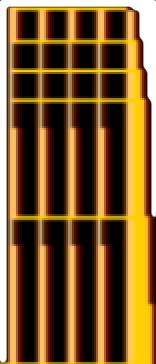
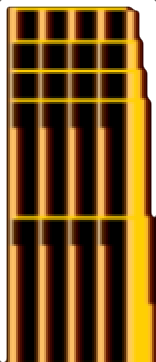
Added street buildings and hacky foreground

diff --git a/public/js/app.bundle.js b/public/js/app.bundle.js
@@ -1,1 +1,1 @@
-window.bc=function(t){var e={};function r(n){if(e[n])return e[n].exports;var o=e[n]={i:n,l:!1,exports:{}};return t[n].call(o.exports,o,o.exports,r),o.l=!0,o.exports}return r.m=t,r.c=e,r.d=function(t,e,n){r.o(t,e)||Object.defineProperty(t,e,{enumerable:!0,get:n})},r.r=function(t){"undefined"!=typeof Symbol&&Symbol.toStringTag&&Object.defineProperty(t,Symbol.toStringTag,{value:"Module"}),Object.defineProperty(t,"__esModule",{value:!0})},r.t=function(t,e){if(1&e&&(t=r(t)),8&e)return t;if(4&e&&"object"==typeof t&&t&&t.__esModule)return t;var n=Object.create(null);if(r.r(n),Object.defineProperty(n,"default",{enumerable:!0,value:t}),2&e&&"string"!=typeof t)for(var o in t)r.d(n,o,function(e){return t[e]}.bind(null,o));return n},r.n=function(t){var e=t&&t.__esModule?function(){return t.default}:function(){return t};return r.d(e,"a",e),e},r.o=function(t,e){return Object.prototype.hasOwnProperty.call(t,e)},r.p="",r(r.s=4)}([function(t,e){t.exports=class{constructor(t,e){this.repo=t,this.sky=e,this.engagement=0,this.max_engagement=5}inc_engagement(){return this.engagement==this.max_engagement&&(this.engagement=-1),this.engagement++,this.repo.get_texture("sky",this.engagement).then(t=>(console.log(t),console.log("Setting sky to:",t.name),this.sky.setTexture(t.name),this.engagement))}}},function(t,e,r){"use strict";var n=this&&this.__assign||Object.assign||function(t){for(var e,r=1,n=arguments.length;r<n;r++)for(var o in e=arguments[r])Object.prototype.hasOwnProperty.call(e,o)&&(t[o]=e[o]);return t},o=this&&this.__awaiter||function(t,e,r,n){return new(r||(r=Promise))((function(o,i){function s(t){try{u(n.next(t))}catch(t){i(t)}}function a(t){try{u(n.throw(t))}catch(t){i(t)}}function u(t){t.done?o(t.value):new r((function(e){e(t.value)})).then(s,a)}u((n=n.apply(t,e||[])).next())}))},i=this&&this.__generator||function(t,e){var r,n,o,i,s={label:0,sent:function(){if(1&o[0])throw o[1];return o[1]},trys:[],ops:[]};return i={next:a(0),throw:a(1),return:a(2)},"function"==typeof Symbol&&(i[Symbol.iterator]=function(){return this}),i;function a(i){return function(a){return function(i){if(r)throw new TypeError("Generator is already executing.");for(;s;)try{if(r=1,n&&(o=n[2&i[0]?"return":i[0]?"throw":"next"])&&!(o=o.call(n,i[1])).done)return o;switch(n=0,o&&(i=[0,o.value]),i[0]){case 0:case 1:o=i;break;case 4:return s.label++,{value:i[1],done:!1};case 5:s.label++,n=i[1],i=[0];continue;case 7:i=s.ops.pop(),s.trys.pop();continue;default:if(!(o=(o=s.trys).length>0&&o[o.length-1])&&(6===i[0]||2===i[0])){s=0;continue}if(3===i[0]&&(!o||i[1]>o[0]&&i[1]<o[3])){s.label=i[1];break}if(6===i[0]&&s.label<o[1]){s.label=o[1],o=i;break}if(o&&s.label<o[2]){s.label=o[2],s.ops.push(i);break}o[2]&&s.ops.pop(),s.trys.pop();continue}i=e.call(t,s)}catch(t){i=[6,t],n=0}finally{r=o=0}if(5&i[0])throw i[1];return{value:i[0]?i[1]:void 0,done:!0}}([i,a])}}},s=this&&this.__rest||function(t,e){var r={};for(var n in t)Object.prototype.hasOwnProperty.call(t,n)&&e.indexOf(n)<0&&(r[n]=t[n]);if(null!=t&&"function"==typeof Object.getOwnPropertySymbols){var o=0;for(n=Object.getOwnPropertySymbols(t);o<n.length;o++)e.indexOf(n[o])<0&&(r[n[o]]=t[n[o]])}return r};Object.defineProperty(e,"__esModule",{value:!0});var a=r(2),u=r(2);e.ClientError=u.ClientError,r(5);var h=function(){function t(t,e){this.url=t,this.options=e||{}}return t.prototype.rawRequest=function(t,e){return o(this,void 0,void 0,(function(){var r,o,u,h,c,l,d,p,y;return i(this,(function(i){switch(i.label){case 0:return r=this.options,o=r.headers,u=s(r,["headers"]),h=JSON.stringify({query:t,variables:e||void 0}),[4,fetch(this.url,n({method:"POST",headers:Object.assign({"Content-Type":"application/json"},o),body:h},u))];case 1:return[4,f(c=i.sent())];case 2:if(l=i.sent(),c.ok&&!l.errors&&l.data)return d=c.headers,p=c.status,[2,n({},l,{headers:d,status:p})];throw y="string"==typeof l?{error:l}:l,new a.ClientError(n({},y,{status:c.status,headers:c.headers}),{query:t,variables:e})}}))}))},t.prototype.request=function(t,e){return o(this,void 0,void 0,(function(){var r,o,u,h,c,l,d;return i(this,(function(i){switch(i.label){case 0:return r=this.options,o=r.headers,u=s(r,["headers"]),h=JSON.stringify({query:t,variables:e||void 0}),[4,fetch(this.url,n({method:"POST",headers:Object.assign({"Content-Type":"application/json"},o),body:h},u))];case 1:return[4,f(c=i.sent())];case 2:if(l=i.sent(),c.ok&&!l.errors&&l.data)return[2,l.data];throw d="string"==typeof l?{error:l}:l,new a.ClientError(n({},d,{status:c.status}),{query:t,variables:e})}}))}))},t.prototype.setHeaders=function(t){return this.options.headers=t,this},t.prototype.setHeader=function(t,e){var r,n=this.options.headers;return n?n[t]=e:this.options.headers=((r={})[t]=e,r),this},t}();function c(t,e,r){return o(this,void 0,void 0,(function(){return i(this,(function(n){return[2,new h(t).request(e,r)]}))}))}function f(t){return o(this,void 0,void 0,(function(){var e;return i(this,(function(r){return(e=t.headers.get("Content-Type"))&&e.startsWith("application/json")?[2,t.json()]:[2,t.text()]}))}))}e.GraphQLClient=h,e.rawRequest=function(t,e,r){return o(this,void 0,void 0,(function(){return i(this,(function(n){return[2,new h(t).rawRequest(e,r)]}))}))},e.request=c,e.default=c},function(t,e,r){"use strict";var n,o=this&&this.__extends||(n=Object.setPrototypeOf||{__proto__:[]}instanceof Array&&function(t,e){t.__proto__=e}||function(t,e){for(var r in e)e.hasOwnProperty(r)&&(t[r]=e[r])},function(t,e){function r(){this.constructor=t}n(t,e),t.prototype=null===e?Object.create(e):(r.prototype=e.prototype,new r)});Object.defineProperty(e,"__esModule",{value:!0});var i=function(t){function e(r,n){var o=this,i=e.extractMessage(r)+": "+JSON.stringify({response:r,request:n});return(o=t.call(this,i)||this).response=r,o.request=n,"function"==typeof Error.captureStackTrace&&Error.captureStackTrace(o,e),o}return o(e,t),e.extractMessage=function(t){try{return t.errors[0].message}catch(e){return"GraphQL Error (Code: "+t.status+")"}},e}(Error);e.ClientError=i},function(t,e,r){const{request:n}=r(1);t.exports=class{constructor(t){this.api_endpoint=t}get_texture(t,e){var r=[];if(void 0===t){const t="{\n          textures {name src}\n        }";return n(this.api_endpoint,t).then(t=>{t.textures.forEach(t=>{r.push(t)})})}{void 0===e&&(e=0);const r=`{\n          texture(name:"${t}", level:${e}) {name src}\n        }`;return n(this.api_endpoint,r).then(t=>t.texture)}}}},function(t,e,r){"use strict";r.r(e),r.d(e,"default",(function(){return c}));var n=r(0),o=r.n(n),i=r(3),s=r.n(i),a=r(1);class u extends Phaser.Scene{constructor(){super({key:"preloadScene"})}preload(){const t=window.location.href+"graphql";Object(a.request)(t,"{\n            textures {name src}\n          }").then(t=>{t.textures.forEach(t=>{this.load.image(t.name,t.src)}),this.load.start()}),this.load.on("progress",this.updateBar),this.load.on("complete",this.complete,{scene:this.scene})}updateBar(t){console.log("P:"+t)}complete(){console.log("COMPLETE!"),this.scene.start("gameScene")}}class h extends Phaser.Scene{constructor(t){super({key:"gameScene"}),this.bc=t,this.i=0,this.gameWidth=8e3,this.canvasWidth=1280}create(){var t;console.log("in create");this.sys.canvas.hight;const e=this.add.image(0,0,"sky").setOrigin(0,0);e.displayWidth=this.gameWidth;this.add.image(1800,100,"buildings").setOrigin(0,0),this.add.image(3800,100,"buildings").setOrigin(0,0);const r=window.location.href+"graphql";t=new s.a(r),this.bc.repo=t,this.bc.sky=e,this.bc.max_engagement=2,this.cursors=this.input.keyboard.createCursorKeys(),this.cameras.main.setViewport(0,0,this.sys.canvas.width,this.sys.canvas.height),this.input.on("pointerdown",(function(t){this.bc.inc_engagement()}),this)}update(){this.cursors.left.isDown?this.i>0&&(this.i-=10,console.log(this.i),this.cameras.main.setScroll(this.i,0)):this.cursors.right.isDown&&this.i<this.gameWidth-this.canvasWidth&&(this.i+=10,console.log(this.i),this.cameras.main.setScroll(this.i,0))}resize(){}}function c(){var t={type:Phaser.CANVAS,scale:{mode:Phaser.Scale.FIT,autoCenter:Phaser.Scale.CENTER_BOTH,width:1280,height:720},canvas:document.getElementById("game")},e=new o.a,r=new Phaser.Game(t);return r.scene.add("preloadScene",new u),r.scene.add("gameScene",new h(e)),r.scene.start("preloadScene"),{game:r,bc:e}}},function(t,e){!function(t){if(!t.fetch){var e="URLSearchParams"in t,r="Symbol"in t&&"iterator"in Symbol,n="FileReader"in t&&"Blob"in t&&function(){try{return new Blob,!0}catch(t){return!1}}(),o="FormData"in t,i="ArrayBuffer"in t;if(i)var s=["[object Int8Array]","[object Uint8Array]","[object Uint8ClampedArray]","[object Int16Array]","[object Uint16Array]","[object Int32Array]","[object Uint32Array]","[object Float32Array]","[object Float64Array]"],a=function(t){return t&&DataView.prototype.isPrototypeOf(t)},u=ArrayBuffer.isView||function(t){return t&&s.indexOf(Object.prototype.toString.call(t))>-1};p.prototype.append=function(t,e){t=f(t),e=l(e);var r=this.map[t];this.map[t]=r?r+","+e:e},p.prototype.delete=function(t){delete this.map[f(t)]},p.prototype.get=function(t){return t=f(t),this.has(t)?this.map[t]:null},p.prototype.has=function(t){return this.map.hasOwnProperty(f(t))},p.prototype.set=function(t,e){this.map[f(t)]=l(e)},p.prototype.forEach=function(t,e){for(var r in this.map)this.map.hasOwnProperty(r)&&t.call(e,this.map[r],r,this)},p.prototype.keys=function(){var t=[];return this.forEach((function(e,r){t.push(r)})),d(t)},p.prototype.values=function(){var t=[];return this.forEach((function(e){t.push(e)})),d(t)},p.prototype.entries=function(){var t=[];return this.forEach((function(e,r){t.push([r,e])})),d(t)},r&&(p.prototype[Symbol.iterator]=p.prototype.entries);var h=["DELETE","GET","HEAD","OPTIONS","POST","PUT"];v.prototype.clone=function(){return new v(this,{body:this._bodyInit})},w.call(v.prototype),w.call(x.prototype),x.prototype.clone=function(){return new x(this._bodyInit,{status:this.status,statusText:this.statusText,headers:new p(this.headers),url:this.url})},x.error=function(){var t=new x(null,{status:0,statusText:""});return t.type="error",t};var c=[301,302,303,307,308];x.redirect=function(t,e){if(-1===c.indexOf(e))throw new RangeError("Invalid status code");return new x(null,{status:e,headers:{location:t}})},t.Headers=p,t.Request=v,t.Response=x,t.fetch=function(t,e){return new Promise((function(r,o){var i=new v(t,e),s=new XMLHttpRequest;s.onload=function(){var t,e,n={status:s.status,statusText:s.statusText,headers:(t=s.getAllResponseHeaders()||"",e=new p,t.replace(/\r?\n[\t ]+/g," ").split(/\r?\n/).forEach((function(t){var r=t.split(":"),n=r.shift().trim();if(n){var o=r.join(":").trim();e.append(n,o)}})),e)};n.url="responseURL"in s?s.responseURL:n.headers.get("X-Request-URL");var o="response"in s?s.response:s.responseText;r(new x(o,n))},s.onerror=function(){o(new TypeError("Network request failed"))},s.ontimeout=function(){o(new TypeError("Network request failed"))},s.open(i.method,i.url,!0),"include"===i.credentials?s.withCredentials=!0:"omit"===i.credentials&&(s.withCredentials=!1),"responseType"in s&&n&&(s.responseType="blob"),i.headers.forEach((function(t,e){s.setRequestHeader(e,t)})),s.send(void 0===i._bodyInit?null:i._bodyInit)}))},t.fetch.polyfill=!0}function f(t){if("string"!=typeof t&&(t=String(t)),/[^a-z0-9\-#$%&'*+.\^_`|~]/i.test(t))throw new TypeError("Invalid character in header field name");return t.toLowerCase()}function l(t){return"string"!=typeof t&&(t=String(t)),t}function d(t){var e={next:function(){var e=t.shift();return{done:void 0===e,value:e}}};return r&&(e[Symbol.iterator]=function(){return e}),e}function p(t){this.map={},t instanceof p?t.forEach((function(t,e){this.append(e,t)}),this):Array.isArray(t)?t.forEach((function(t){this.append(t[0],t[1])}),this):t&&Object.getOwnPropertyNames(t).forEach((function(e){this.append(e,t[e])}),this)}function y(t){if(t.bodyUsed)return Promise.reject(new TypeError("Already read"));t.bodyUsed=!0}function b(t){return new Promise((function(e,r){t.onload=function(){e(t.result)},t.onerror=function(){r(t.error)}}))}function m(t){var e=new FileReader,r=b(e);return e.readAsArrayBuffer(t),r}function g(t){if(t.slice)return t.slice(0);var e=new Uint8Array(t.byteLength);return e.set(new Uint8Array(t)),e.buffer}function w(){return this.bodyUsed=!1,this._initBody=function(t){if(this._bodyInit=t,t)if("string"==typeof t)this._bodyText=t;else if(n&&Blob.prototype.isPrototypeOf(t))this._bodyBlob=t;else if(o&&FormData.prototype.isPrototypeOf(t))this._bodyFormData=t;else if(e&&URLSearchParams.prototype.isPrototypeOf(t))this._bodyText=t.toString();else if(i&&n&&a(t))this._bodyArrayBuffer=g(t.buffer),this._bodyInit=new Blob([this._bodyArrayBuffer]);else{if(!i||!ArrayBuffer.prototype.isPrototypeOf(t)&&!u(t))throw new Error("unsupported BodyInit type");this._bodyArrayBuffer=g(t)}else this._bodyText="";this.headers.get("content-type")||("string"==typeof t?this.headers.set("content-type","text/plain;charset=UTF-8"):this._bodyBlob&&this._bodyBlob.type?this.headers.set("content-type",this._bodyBlob.type):e&&URLSearchParams.prototype.isPrototypeOf(t)&&this.headers.set("content-type","application/x-www-form-urlencoded;charset=UTF-8"))},n&&(this.blob=function(){var t=y(this);if(t)return t;if(this._bodyBlob)return Promise.resolve(this._bodyBlob);if(this._bodyArrayBuffer)return Promise.resolve(new Blob([this._bodyArrayBuffer]));if(this._bodyFormData)throw new Error("could not read FormData body as blob");return Promise.resolve(new Blob([this._bodyText]))},this.arrayBuffer=function(){return this._bodyArrayBuffer?y(this)||Promise.resolve(this._bodyArrayBuffer):this.blob().then(m)}),this.text=function(){var t,e,r,n=y(this);if(n)return n;if(this._bodyBlob)return t=this._bodyBlob,e=new FileReader,r=b(e),e.readAsText(t),r;if(this._bodyArrayBuffer)return Promise.resolve(function(t){for(var e=new Uint8Array(t),r=new Array(e.length),n=0;n<e.length;n++)r[n]=String.fromCharCode(e[n]);return r.join("")}(this._bodyArrayBuffer));if(this._bodyFormData)throw new Error("could not read FormData body as text");return Promise.resolve(this._bodyText)},o&&(this.formData=function(){return this.text().then(_)}),this.json=function(){return this.text().then(JSON.parse)},this}function v(t,e){var r,n,o=(e=e||{}).body;if(t instanceof v){if(t.bodyUsed)throw new TypeError("Already read");this.url=t.url,this.credentials=t.credentials,e.headers||(this.headers=new p(t.headers)),this.method=t.method,this.mode=t.mode,o||null==t._bodyInit||(o=t._bodyInit,t.bodyUsed=!0)}else this.url=String(t);if(this.credentials=e.credentials||this.credentials||"omit",!e.headers&&this.headers||(this.headers=new p(e.headers)),this.method=(r=e.method||this.method||"GET",n=r.toUpperCase(),h.indexOf(n)>-1?n:r),this.mode=e.mode||this.mode||null,this.referrer=null,("GET"===this.method||"HEAD"===this.method)&&o)throw new TypeError("Body not allowed for GET or HEAD requests");this._initBody(o)}function _(t){var e=new FormData;return t.trim().split("&").forEach((function(t){if(t){var r=t.split("="),n=r.shift().replace(/\+/g," "),o=r.join("=").replace(/\+/g," ");e.append(decodeURIComponent(n),decodeURIComponent(o))}})),e}function x(t,e){e||(e={}),this.type="default",this.status=void 0===e.status?200:e.status,this.ok=this.status>=200&&this.status<300,this.statusText="statusText"in e?e.statusText:"OK",this.headers=new p(e.headers),this.url=e.url||"",this._initBody(t)}}("undefined"!=typeof self?self:this)}]).default;
+window.bc=function(t){var e={};function r(n){if(e[n])return e[n].exports;var o=e[n]={i:n,l:!1,exports:{}};return t[n].call(o.exports,o,o.exports,r),o.l=!0,o.exports}return r.m=t,r.c=e,r.d=function(t,e,n){r.o(t,e)||Object.defineProperty(t,e,{enumerable:!0,get:n})},r.r=function(t){"undefined"!=typeof Symbol&&Symbol.toStringTag&&Object.defineProperty(t,Symbol.toStringTag,{value:"Module"}),Object.defineProperty(t,"__esModule",{value:!0})},r.t=function(t,e){if(1&e&&(t=r(t)),8&e)return t;if(4&e&&"object"==typeof t&&t&&t.__esModule)return t;var n=Object.create(null);if(r.r(n),Object.defineProperty(n,"default",{enumerable:!0,value:t}),2&e&&"string"!=typeof t)for(var o in t)r.d(n,o,function(e){return t[e]}.bind(null,o));return n},r.n=function(t){var e=t&&t.__esModule?function(){return t.default}:function(){return t};return r.d(e,"a",e),e},r.o=function(t,e){return Object.prototype.hasOwnProperty.call(t,e)},r.p="",r(r.s=5)}([function(t,e){t.exports=class{constructor(t,e){this.repo=t,this.sky=e,this.engagement=0,this.max_engagement=5}inc_engagement(){return this.engagement==this.max_engagement&&(this.engagement=-1),this.engagement++,this.repo.get_texture("sky",this.engagement).then(t=>(console.log(t),console.log("Setting sky to:",t.name),this.sky.setTexture(t.name),this.engagement))}}},function(t,e,r){"use strict";var n=this&&this.__assign||Object.assign||function(t){for(var e,r=1,n=arguments.length;r<n;r++)for(var o in e=arguments[r])Object.prototype.hasOwnProperty.call(e,o)&&(t[o]=e[o]);return t},o=this&&this.__awaiter||function(t,e,r,n){return new(r||(r=Promise))((function(o,s){function i(t){try{u(n.next(t))}catch(t){s(t)}}function a(t){try{u(n.throw(t))}catch(t){s(t)}}function u(t){t.done?o(t.value):new r((function(e){e(t.value)})).then(i,a)}u((n=n.apply(t,e||[])).next())}))},s=this&&this.__generator||function(t,e){var r,n,o,s,i={label:0,sent:function(){if(1&o[0])throw o[1];return o[1]},trys:[],ops:[]};return s={next:a(0),throw:a(1),return:a(2)},"function"==typeof Symbol&&(s[Symbol.iterator]=function(){return this}),s;function a(s){return function(a){return function(s){if(r)throw new TypeError("Generator is already executing.");for(;i;)try{if(r=1,n&&(o=n[2&s[0]?"return":s[0]?"throw":"next"])&&!(o=o.call(n,s[1])).done)return o;switch(n=0,o&&(s=[0,o.value]),s[0]){case 0:case 1:o=s;break;case 4:return i.label++,{value:s[1],done:!1};case 5:i.label++,n=s[1],s=[0];continue;case 7:s=i.ops.pop(),i.trys.pop();continue;default:if(!(o=(o=i.trys).length>0&&o[o.length-1])&&(6===s[0]||2===s[0])){i=0;continue}if(3===s[0]&&(!o||s[1]>o[0]&&s[1]<o[3])){i.label=s[1];break}if(6===s[0]&&i.label<o[1]){i.label=o[1],o=s;break}if(o&&i.label<o[2]){i.label=o[2],i.ops.push(s);break}o[2]&&i.ops.pop(),i.trys.pop();continue}s=e.call(t,i)}catch(t){s=[6,t],n=0}finally{r=o=0}if(5&s[0])throw s[1];return{value:s[0]?s[1]:void 0,done:!0}}([s,a])}}},i=this&&this.__rest||function(t,e){var r={};for(var n in t)Object.prototype.hasOwnProperty.call(t,n)&&e.indexOf(n)<0&&(r[n]=t[n]);if(null!=t&&"function"==typeof Object.getOwnPropertySymbols){var o=0;for(n=Object.getOwnPropertySymbols(t);o<n.length;o++)e.indexOf(n[o])<0&&(r[n[o]]=t[n[o]])}return r};Object.defineProperty(e,"__esModule",{value:!0});var a=r(2),u=r(2);e.ClientError=u.ClientError,r(6);var h=function(){function t(t,e){this.url=t,this.options=e||{}}return t.prototype.rawRequest=function(t,e){return o(this,void 0,void 0,(function(){var r,o,u,h,c,l,d,p,y;return s(this,(function(s){switch(s.label){case 0:return r=this.options,o=r.headers,u=i(r,["headers"]),h=JSON.stringify({query:t,variables:e||void 0}),[4,fetch(this.url,n({method:"POST",headers:Object.assign({"Content-Type":"application/json"},o),body:h},u))];case 1:return[4,f(c=s.sent())];case 2:if(l=s.sent(),c.ok&&!l.errors&&l.data)return d=c.headers,p=c.status,[2,n({},l,{headers:d,status:p})];throw y="string"==typeof l?{error:l}:l,new a.ClientError(n({},y,{status:c.status,headers:c.headers}),{query:t,variables:e})}}))}))},t.prototype.request=function(t,e){return o(this,void 0,void 0,(function(){var r,o,u,h,c,l,d;return s(this,(function(s){switch(s.label){case 0:return r=this.options,o=r.headers,u=i(r,["headers"]),h=JSON.stringify({query:t,variables:e||void 0}),[4,fetch(this.url,n({method:"POST",headers:Object.assign({"Content-Type":"application/json"},o),body:h},u))];case 1:return[4,f(c=s.sent())];case 2:if(l=s.sent(),c.ok&&!l.errors&&l.data)return[2,l.data];throw d="string"==typeof l?{error:l}:l,new a.ClientError(n({},d,{status:c.status}),{query:t,variables:e})}}))}))},t.prototype.setHeaders=function(t){return this.options.headers=t,this},t.prototype.setHeader=function(t,e){var r,n=this.options.headers;return n?n[t]=e:this.options.headers=((r={})[t]=e,r),this},t}();function c(t,e,r){return o(this,void 0,void 0,(function(){return s(this,(function(n){return[2,new h(t).request(e,r)]}))}))}function f(t){return o(this,void 0,void 0,(function(){var e;return s(this,(function(r){return(e=t.headers.get("Content-Type"))&&e.startsWith("application/json")?[2,t.json()]:[2,t.text()]}))}))}e.GraphQLClient=h,e.rawRequest=function(t,e,r){return o(this,void 0,void 0,(function(){return s(this,(function(n){return[2,new h(t).rawRequest(e,r)]}))}))},e.request=c,e.default=c},function(t,e,r){"use strict";var n,o=this&&this.__extends||(n=Object.setPrototypeOf||{__proto__:[]}instanceof Array&&function(t,e){t.__proto__=e}||function(t,e){for(var r in e)e.hasOwnProperty(r)&&(t[r]=e[r])},function(t,e){function r(){this.constructor=t}n(t,e),t.prototype=null===e?Object.create(e):(r.prototype=e.prototype,new r)});Object.defineProperty(e,"__esModule",{value:!0});var s=function(t){function e(r,n){var o=this,s=e.extractMessage(r)+": "+JSON.stringify({response:r,request:n});return(o=t.call(this,s)||this).response=r,o.request=n,"function"==typeof Error.captureStackTrace&&Error.captureStackTrace(o,e),o}return o(e,t),e.extractMessage=function(t){try{return t.errors[0].message}catch(e){return"GraphQL Error (Code: "+t.status+")"}},e}(Error);e.ClientError=s},function(t,e){t.exports=class{constructor(t,e){this.buildings=t.buildings,this.gfx_repo=e}render_buildings(t,e){var r=100,n=this.gfx_repo,o=this.buildings,s=[],i=[];return o.forEach((function(o){i.push(n.get_texture(o.type,e).then(e=>(r+=1e3,s.push(t.add.image(r,420,e.name)))))})),Promise.all(i).then((function(e){var r;for(console.log(e),r=0;r<10;r++)t.fg.push(t.add.image(1500+2e3*r,420,"foreground"));return e}))}}},function(t,e,r){const{request:n}=r(1);t.exports=class{constructor(t){this.api_endpoint=t}get_texture(t,e){var r=[];if(void 0===t){const t="{\n          textures {name src}\n        }";return n(this.api_endpoint,t).then(t=>{t.textures.forEach(t=>{r.push(t)})})}{void 0===e&&(e=0);const r=`{\n          texture(name:"${t}", level:${e}) {name src}\n        }`;return n(this.api_endpoint,r).then(t=>t.texture)}}}},function(t,e,r){"use strict";r.r(e),r.d(e,"default",(function(){return l}));var n=r(0),o=r.n(n),s=r(3),i=r.n(s),a=r(4),u=r.n(a),h=r(1);class c extends Phaser.Scene{constructor(){super({key:"preloadScene"})}preload(){this.load.image("foreground","assets/foreground.png");const t=window.location.href+"graphql";Object(h.request)(t,"{\n            textures {name src}\n          }").then(t=>{t.textures.forEach(t=>{this.load.image(t.name,t.src)}),this.load.start()}),this.load.on("progress",this.updateBar),this.load.on("complete",this.complete,{scene:this.scene})}updateBar(t){console.log("P:"+t)}complete(){console.log("COMPLETE!"),this.scene.start("gameScene")}}class f extends Phaser.Scene{constructor(t){super({key:"gameScene"}),this.bc=t,this.i=0,this.gameWidth=8e3,this.canvasWidth=1280,this.fg,this.buildings,this.cursors}create(){var t;console.log("in create");this.sys.canvas.hight;const e=this.add.image(0,0,"sky").setOrigin(0,0);e.displayWidth=this.gameWidth;const r=window.location.href+"graphql";t=new u.a(r),this.bc.repo=t,this.bc.sky=e,this.bc.max_engagement=2,this.cursors=this.input.keyboard.createCursorKeys(),this.cameras.main.setViewport(0,0,this.sys.canvas.width,this.sys.canvas.height),this.input.on("pointerdown",(function(t){this.bc.inc_engagement()}),this);var n=new i.a({name:"thomas street",buildings:[{type:"store"},{type:"store"},{type:"store"}],foreground:[],path:[{x:1,y:1},{x:5,y:10},{x:10,y:15}]});n.gfx_repo=t,this.fg=[],this.buildings=n.render_buildings(this)}update(){if(this.cursors.left.isDown){if(this.i>0){this.i-=10,this.cameras.main.setScroll(this.i,0);var t=0;for(t=0;t<10;t++)this.fg[t].x+=20}}else if(this.cursors.right.isDown&&this.i<this.gameWidth-this.canvasWidth){this.i+=10,this.cameras.main.setScroll(this.i,0);t=0;for(t=0;t<10;t++)this.fg[t].x-=20}}resize(){}}function l(){var t={type:Phaser.CANVAS,scale:{mode:Phaser.Scale.FIT,autoCenter:Phaser.Scale.CENTER_BOTH,width:1280,height:720},canvas:document.getElementById("game")},e=new o.a,r=new Phaser.Game(t);return r.scene.add("preloadScene",new c),r.scene.add("gameScene",new f(e)),r.scene.start("preloadScene"),{game:r,bc:e}}},function(t,e){!function(t){if(!t.fetch){var e="URLSearchParams"in t,r="Symbol"in t&&"iterator"in Symbol,n="FileReader"in t&&"Blob"in t&&function(){try{return new Blob,!0}catch(t){return!1}}(),o="FormData"in t,s="ArrayBuffer"in t;if(s)var i=["[object Int8Array]","[object Uint8Array]","[object Uint8ClampedArray]","[object Int16Array]","[object Uint16Array]","[object Int32Array]","[object Uint32Array]","[object Float32Array]","[object Float64Array]"],a=function(t){return t&&DataView.prototype.isPrototypeOf(t)},u=ArrayBuffer.isView||function(t){return t&&i.indexOf(Object.prototype.toString.call(t))>-1};p.prototype.append=function(t,e){t=f(t),e=l(e);var r=this.map[t];this.map[t]=r?r+","+e:e},p.prototype.delete=function(t){delete this.map[f(t)]},p.prototype.get=function(t){return t=f(t),this.has(t)?this.map[t]:null},p.prototype.has=function(t){return this.map.hasOwnProperty(f(t))},p.prototype.set=function(t,e){this.map[f(t)]=l(e)},p.prototype.forEach=function(t,e){for(var r in this.map)this.map.hasOwnProperty(r)&&t.call(e,this.map[r],r,this)},p.prototype.keys=function(){var t=[];return this.forEach((function(e,r){t.push(r)})),d(t)},p.prototype.values=function(){var t=[];return this.forEach((function(e){t.push(e)})),d(t)},p.prototype.entries=function(){var t=[];return this.forEach((function(e,r){t.push([r,e])})),d(t)},r&&(p.prototype[Symbol.iterator]=p.prototype.entries);var h=["DELETE","GET","HEAD","OPTIONS","POST","PUT"];w.prototype.clone=function(){return new w(this,{body:this._bodyInit})},v.call(w.prototype),v.call(x.prototype),x.prototype.clone=function(){return new x(this._bodyInit,{status:this.status,statusText:this.statusText,headers:new p(this.headers),url:this.url})},x.error=function(){var t=new x(null,{status:0,statusText:""});return t.type="error",t};var c=[301,302,303,307,308];x.redirect=function(t,e){if(-1===c.indexOf(e))throw new RangeError("Invalid status code");return new x(null,{status:e,headers:{location:t}})},t.Headers=p,t.Request=w,t.Response=x,t.fetch=function(t,e){return new Promise((function(r,o){var s=new w(t,e),i=new XMLHttpRequest;i.onload=function(){var t,e,n={status:i.status,statusText:i.statusText,headers:(t=i.getAllResponseHeaders()||"",e=new p,t.replace(/\r?\n[\t ]+/g," ").split(/\r?\n/).forEach((function(t){var r=t.split(":"),n=r.shift().trim();if(n){var o=r.join(":").trim();e.append(n,o)}})),e)};n.url="responseURL"in i?i.responseURL:n.headers.get("X-Request-URL");var o="response"in i?i.response:i.responseText;r(new x(o,n))},i.onerror=function(){o(new TypeError("Network request failed"))},i.ontimeout=function(){o(new TypeError("Network request failed"))},i.open(s.method,s.url,!0),"include"===s.credentials?i.withCredentials=!0:"omit"===s.credentials&&(i.withCredentials=!1),"responseType"in i&&n&&(i.responseType="blob"),s.headers.forEach((function(t,e){i.setRequestHeader(e,t)})),i.send(void 0===s._bodyInit?null:s._bodyInit)}))},t.fetch.polyfill=!0}function f(t){if("string"!=typeof t&&(t=String(t)),/[^a-z0-9\-#$%&'*+.\^_`|~]/i.test(t))throw new TypeError("Invalid character in header field name");return t.toLowerCase()}function l(t){return"string"!=typeof t&&(t=String(t)),t}function d(t){var e={next:function(){var e=t.shift();return{done:void 0===e,value:e}}};return r&&(e[Symbol.iterator]=function(){return e}),e}function p(t){this.map={},t instanceof p?t.forEach((function(t,e){this.append(e,t)}),this):Array.isArray(t)?t.forEach((function(t){this.append(t[0],t[1])}),this):t&&Object.getOwnPropertyNames(t).forEach((function(e){this.append(e,t[e])}),this)}function y(t){if(t.bodyUsed)return Promise.reject(new TypeError("Already read"));t.bodyUsed=!0}function b(t){return new Promise((function(e,r){t.onload=function(){e(t.result)},t.onerror=function(){r(t.error)}}))}function m(t){var e=new FileReader,r=b(e);return e.readAsArrayBuffer(t),r}function g(t){if(t.slice)return t.slice(0);var e=new Uint8Array(t.byteLength);return e.set(new Uint8Array(t)),e.buffer}function v(){return this.bodyUsed=!1,this._initBody=function(t){if(this._bodyInit=t,t)if("string"==typeof t)this._bodyText=t;else if(n&&Blob.prototype.isPrototypeOf(t))this._bodyBlob=t;else if(o&&FormData.prototype.isPrototypeOf(t))this._bodyFormData=t;else if(e&&URLSearchParams.prototype.isPrototypeOf(t))this._bodyText=t.toString();else if(s&&n&&a(t))this._bodyArrayBuffer=g(t.buffer),this._bodyInit=new Blob([this._bodyArrayBuffer]);else{if(!s||!ArrayBuffer.prototype.isPrototypeOf(t)&&!u(t))throw new Error("unsupported BodyInit type");this._bodyArrayBuffer=g(t)}else this._bodyText="";this.headers.get("content-type")||("string"==typeof t?this.headers.set("content-type","text/plain;charset=UTF-8"):this._bodyBlob&&this._bodyBlob.type?this.headers.set("content-type",this._bodyBlob.type):e&&URLSearchParams.prototype.isPrototypeOf(t)&&this.headers.set("content-type","application/x-www-form-urlencoded;charset=UTF-8"))},n&&(this.blob=function(){var t=y(this);if(t)return t;if(this._bodyBlob)return Promise.resolve(this._bodyBlob);if(this._bodyArrayBuffer)return Promise.resolve(new Blob([this._bodyArrayBuffer]));if(this._bodyFormData)throw new Error("could not read FormData body as blob");return Promise.resolve(new Blob([this._bodyText]))},this.arrayBuffer=function(){return this._bodyArrayBuffer?y(this)||Promise.resolve(this._bodyArrayBuffer):this.blob().then(m)}),this.text=function(){var t,e,r,n=y(this);if(n)return n;if(this._bodyBlob)return t=this._bodyBlob,e=new FileReader,r=b(e),e.readAsText(t),r;if(this._bodyArrayBuffer)return Promise.resolve(function(t){for(var e=new Uint8Array(t),r=new Array(e.length),n=0;n<e.length;n++)r[n]=String.fromCharCode(e[n]);return r.join("")}(this._bodyArrayBuffer));if(this._bodyFormData)throw new Error("could not read FormData body as text");return Promise.resolve(this._bodyText)},o&&(this.formData=function(){return this.text().then(_)}),this.json=function(){return this.text().then(JSON.parse)},this}function w(t,e){var r,n,o=(e=e||{}).body;if(t instanceof w){if(t.bodyUsed)throw new TypeError("Already read");this.url=t.url,this.credentials=t.credentials,e.headers||(this.headers=new p(t.headers)),this.method=t.method,this.mode=t.mode,o||null==t._bodyInit||(o=t._bodyInit,t.bodyUsed=!0)}else this.url=String(t);if(this.credentials=e.credentials||this.credentials||"omit",!e.headers&&this.headers||(this.headers=new p(e.headers)),this.method=(r=e.method||this.method||"GET",n=r.toUpperCase(),h.indexOf(n)>-1?n:r),this.mode=e.mode||this.mode||null,this.referrer=null,("GET"===this.method||"HEAD"===this.method)&&o)throw new TypeError("Body not allowed for GET or HEAD requests");this._initBody(o)}function _(t){var e=new FormData;return t.trim().split("&").forEach((function(t){if(t){var r=t.split("="),n=r.shift().replace(/\+/g," "),o=r.join("=").replace(/\+/g," ");e.append(decodeURIComponent(n),decodeURIComponent(o))}})),e}function x(t,e){e||(e={}),this.type="default",this.status=void 0===e.status?200:e.status,this.ok=this.status>=200&&this.status<300,this.statusText="statusText"in e?e.statusText:"OK",this.headers=new p(e.headers),this.url=e.url||"",this._initBody(t)}}("undefined"!=typeof self?self:this)}]).default;

diff --git a/src/index.js b/src/index.js
@@ -1,4 +1,5 @@
 import Game from './game.js';
+import Street from './street.js';
 import GfxRepoClient from './gfx_repo_client.js';
 import { request } from 'graphql-request'
 
@@ -10,6 +11,10 @@ class preloadScene extends Phaser.Scene {
 
       preload()
       {
+        // HACK
+        this.load.image('foreground', 'assets/foreground.png')
+        //
+
         const query = `{
             textures {name src}
           }`
@@ -42,12 +47,14 @@ class gameScene extends Phaser.Scene {
         this.i = 0;
         this.gameWidth = 8000 // this.sys.canvas.width;
         this.canvasWidth = 1280
+        this.fg;
+        this.buildings;
+        this.cursors;
       }
 
       create ()
       {
           var repo;
-          var cursors;
           var repeat;
 
           console.log('in create');
@@ -55,21 +62,44 @@ class gameScene extends Phaser.Scene {
           const sky = this.add.image(0, 0, 'sky').setOrigin(0, 0)  // reset the drawing position of the image to the top-left - default is centre
           sky.displayWidth = this.gameWidth;
 
-          const bld = this.add.image(1800, 100, 'buildings').setOrigin(0, 0)  // reset the drawing position of the image to the top-left - default is centre
-          const bl2 = this.add.image(3800, 100, 'buildings').setOrigin(0, 0)  // reset the drawing position of the image to the top-left - default is centre
+          // vvv HACK vvv
 
-          const graphql_endpoint = window.location.href + 'graphql';
-          repo = new GfxRepoClient(graphql_endpoint);
-          this.bc.repo = repo;
-          this.bc.sky = sky;
-          this.bc.max_engagement = 2;
-          this.cursors = this.input.keyboard.createCursorKeys();
+          var street_desc = {
+            name: 'thomas street',
+            buildings:[
+              {type: 'store'},
+              // {type: 'tower'},
+              // {type: 'mall'},
+              // {type: 'store'},
+              // {type: 'bar'},
+              {type: 'store'},
+              {type: 'store'}
+            ],
+            // Foreground street furniture - how distributed?
+            foreground:[
+            ],
+            path: // Each street is a bezier curve defined by three sets of co-ords
+              [{x: 1,  y:  1},
+               {x: 5 , y: 10},
+               {x: 10, y: 15}]
+            };
+            const graphql_endpoint = window.location.href + 'graphql';
+            repo = new GfxRepoClient(graphql_endpoint);
+            this.bc.repo = repo;
+            this.bc.sky = sky;
+            this.bc.max_engagement = 2;
+            this.cursors = this.input.keyboard.createCursorKeys();
+            this.cameras.main.setViewport(0, 0, this.sys.canvas.width, this.sys.canvas.height);
 
-          this.cameras.main.setViewport(0, 0, this.sys.canvas.width, this.sys.canvas.height);
+            this.input.on('pointerdown', function (pointer) {
+                this.bc.inc_engagement(); 
+            }, this);
 
-          this.input.on('pointerdown', function (pointer) {
-              this.bc.inc_engagement(); // .then( () => { return });
-          }, this);
+            var street = new Street(street_desc);
+            street.gfx_repo = repo;
+
+            this.fg = [];
+            this.buildings = street.render_buildings(this);
       }
 
       update ()
@@ -79,16 +109,22 @@ class gameScene extends Phaser.Scene {
         {
           if (this.i > 0) {
             this.i-=10;
-            console.log(this.i)
             this.cameras.main.setScroll(this.i, 0);
+            var i = 0;
+            for(i = 0; i < 10; i++) {
+              this.fg[i].x+=20
+            }
           }
         }
         else if (this.cursors.right.isDown)
         {
           if (this.i < this.gameWidth - this.canvasWidth ) {
             this.i+=10;
-            console.log(this.i)
             this.cameras.main.setScroll(this.i, 0);
+            var i = 0;
+            for(i = 0; i < 10; i++) {
+              this.fg[i].x-=20
+            }
           }
         }
       }

diff --git a/test/unit/street.test.js b/test/unit/street.test.js
@@ -1,21 +1,79 @@
+const GfxRepo = require("../../src/gfx_repo.js")
+const Street = require("../../src/street.js")
+
 describe('Street', () => {
-  it('creates a street in Bezier City', () => {
+  it('creates a street in Bezier City', async () => {
+
+    // FG is a DIRTY HACK
+    var scene = {fg: [], add: {image: jest.fn()}}
+
+    var x;
+    for(x = 0; x < 7; x++) {
+      scene.add.image.mockReturnValueOnce(x);
+    }
+
+    // Given a repo with these textures:
+
+    const textures = {'store': {0: {'name': 'petscii-store', 
+                                    'src':  'assets/petscii-store.png'}, 
+                                1: {'name': 'raster-store',
+                                    'src':  'assets/raster-store.png'}},
+                      'tower': {0: {'name': 'petscii-tower', 
+                                    'src':  'assets/petscii-tower.png'}, 
+                                1: {'name': 'raster-tower',
+                                    'src':  'assets/raster-tower.png'}},
+                       'mall': {0: {'name': 'petscii-mall', 
+                                    'src':  'assets/petscii-mall.png'}, 
+                                1: {'name': 'raster-mall',
+                                    'src':  'assets/raster-mall.png'}},
+                       'bar':  {0: {'name': 'petscii-bar', 
+                                    'src':  'assets/petscii-bar.png'}, 
+                                1: {'name': 'raster-bar',
+                                    'src':  'assets/raster-bar.png'}}};
+
+    var repo = new GfxRepo(textures);
     // Given a street descriptor
 
-    street = {
-      name: 'aleanallein',
+    var street_desc = {
+      name: 'thomas street',
       buildings:[
         {type: 'store'},
         {type: 'tower'},
         {type: 'mall'},
+        {type: 'store'},
+        {type: 'bar'},
+        {type: 'store'},
         {type: 'store'}
-      ]
-    }
+      ],
+      // Foreground street furniture - how distributed?
+      foreground:[
+      ],
+      path: // Each street is a bezier curve defined by three sets of co-ords
+        [{x: 1,  y:  1},
+         {x: 5 , y: 10},
+         {x: 10, y: 15}]
+      };
 
-    // When we render the street
+    var street = new Street(street_desc);
+    street.gfx_repo = repo;
+    var buildings = await street.render_buildings(scene);
+    expect(buildings).toEqual([1,2,3,4,5,6,7])
+    // expect(renderer.mock.calls.length).toBe(7);
 
-    // Then we get 
+    // expect(renderer.mock.calls[0][1]).toBe(0);
+    // expect(renderer.mock.calls[0][2]).toBe(0);
+    // expect(renderer.mock.calls[0][3]).toBe('store');
+    // When we render the street at a given engagement level
 
-    // 
+    // Then we get a row of buildings
+
+    // An array of images next to each other with the correct
+    // image for the engagement level
+
+    // This could be returned as 
+
+    // And some stuff in the foreground to create the
+    // illusion of depth
+
   });
 });

diff --git a/public/js/gfx.bundle.js b/public/js/gfx.bundle.js
@@ -1,1 +1,1 @@
-window.bc=function(e){var t={};function r(n){if(t[n])return t[n].exports;var o=t[n]={i:n,l:!1,exports:{}};return e[n].call(o.exports,o,o.exports,r),o.l=!0,o.exports}return r.m=e,r.c=t,r.d=function(e,t,n){r.o(e,t)||Object.defineProperty(e,t,{enumerable:!0,get:n})},r.r=function(e){"undefined"!=typeof Symbol&&Symbol.toStringTag&&Object.defineProperty(e,Symbol.toStringTag,{value:"Module"}),Object.defineProperty(e,"__esModule",{value:!0})},r.t=function(e,t){if(1&t&&(e=r(e)),8&t)return e;if(4&t&&"object"==typeof e&&e&&e.__esModule)return e;var n=Object.create(null);if(r.r(n),Object.defineProperty(n,"default",{enumerable:!0,value:e}),2&t&&"string"!=typeof e)for(var o in e)r.d(n,o,function(t){return e[t]}.bind(null,o));return n},r.n=function(e){var t=e&&e.__esModule?function(){return e.default}:function(){return e};return r.d(t,"a",t),t},r.o=function(e,t){return Object.prototype.hasOwnProperty.call(e,t)},r.p="",r(r.s=6)}({6:function(e,t){e.exports=class{constructor(e){this.gfx_data=e}get_texture(e,t){var r=[];if(void 0===e){for(const[e,t]of Object.entries(this.gfx_data))for(const[e,n]of Object.entries(t))r.push(n);return r}return void 0===t&&(t=0),this.gfx_data[e][t]}}}}).default;
+window.bc=function(e){var t={};function r(n){if(t[n])return t[n].exports;var o=t[n]={i:n,l:!1,exports:{}};return e[n].call(o.exports,o,o.exports,r),o.l=!0,o.exports}return r.m=e,r.c=t,r.d=function(e,t,n){r.o(e,t)||Object.defineProperty(e,t,{enumerable:!0,get:n})},r.r=function(e){"undefined"!=typeof Symbol&&Symbol.toStringTag&&Object.defineProperty(e,Symbol.toStringTag,{value:"Module"}),Object.defineProperty(e,"__esModule",{value:!0})},r.t=function(e,t){if(1&t&&(e=r(e)),8&t)return e;if(4&t&&"object"==typeof e&&e&&e.__esModule)return e;var n=Object.create(null);if(r.r(n),Object.defineProperty(n,"default",{enumerable:!0,value:e}),2&t&&"string"!=typeof e)for(var o in e)r.d(n,o,function(t){return e[t]}.bind(null,o));return n},r.n=function(e){var t=e&&e.__esModule?function(){return e.default}:function(){return e};return r.d(t,"a",t),t},r.o=function(e,t){return Object.prototype.hasOwnProperty.call(e,t)},r.p="",r(r.s=7)}({7:function(e,t){e.exports=class{constructor(e){this.gfx_data=e}get_texture(e,t){var r=this.gfx_data;return new Promise((function(n,o){var u=[];if(void 0===e){for(const[e,t]of Object.entries(r))for(const[e,r]of Object.entries(t))u.push(r);n(u)}else void 0===t&&(t=0),n(r[e][t])}))}}}}).default;

diff --git a/index.js b/index.js
@@ -8,8 +8,10 @@ const express = require('express')
 
 const winston = require('winston');
 
+const env = process.env.NODE_ENV
+
 //////////////////////////////////////////////////////////////////////////
-// This is the vanilla logger to stat with 
+// This is the vanilla logger to start with 
 
 const logger = winston.createLogger({
   level: 'info',
@@ -29,7 +31,7 @@ const logger = winston.createLogger({
 // If we're not in production then log to the `console` with the format:
 // `${info.level}: ${info.message} JSON.stringify({ ...rest }) `
 // 
-if (process.env.NODE_ENV !== 'production') {
+if (env !== 'production') {
   logger.add(new winston.transports.Console({
     format: winston.format.simple()
   }));
@@ -49,7 +51,7 @@ if (app.get('env') !== 'development') {
 }
 
 // Construct a schema, using GraphQL schema language
-logger.log('info', "Starting Bézier City Server");
+logger.log('info', `Starting Bézier City Server in ${env} environment`);
 
 var schema = buildSchema(`
   type Texture {
@@ -63,13 +65,15 @@ var schema = buildSchema(`
   }
 `);
 
-var textures = {'sky': {0: {'name': 'pet-sky', 
-                            'src':  'assets/sky-pet.png'}, 
-                        1: {'name': 'raster-sky',
-                            'src':  'assets/sky.png'},
-                        2: {'name': 'sky',
-                            'src':  'assets/sky-2012.png'}
-                       }
+var textures = {'sky':  {0: {'name': 'pet-sky', 
+                             'src':  'assets/sky-pet.png'}, 
+                         1: {'name': 'raster-sky',
+                             'src':  'assets/sky.png'},
+                         2: {'name': 'sky',
+                             'src':  'assets/sky-2012.png'}
+                        },
+                'store':{0: {'name': 'buildings',
+                             'src':  'assets/buildings.png'}}        
                };
 
 logger.log('info', "Creating graphics repo");

diff --git a/test/unit/gfx_repo.test.js b/test/unit/gfx_repo.test.js
@@ -13,7 +13,7 @@ describe('Bézier City', () => {
 
   });
 
-  it('can return all the assets for preloading', () => {
+  it('can return all the assets for preloading', async () => {
     // Give a populated gfx repo
     var textures = {'sky': {0: {'name': 'petscii-sky', 
                                 'src':  'assets/petscii-sky.png'}, 
@@ -21,7 +21,7 @@ describe('Bézier City', () => {
                                 'src':  'assets/raster-sky.png'}}};
     let gr = new GfxRepo(textures);
     // When the Phaser preload asks for all the assets
-    actual = gr.get_texture();
+    actual = await gr.get_texture();
     // It gets them
     var expected = [{name: 'petscii-sky',
                      src:  'assets/petscii-sky.png'},
@@ -30,14 +30,14 @@ describe('Bézier City', () => {
     expect(actual).toEqual(expected);
   });
 
-  it('return image texture based on graphics level requested', () => {
+  it('return image texture based on graphics level requested', async () => {
     // Given
     var textures = {'sky': {0: 'petscii-sky', 
                             1: 'raster-sky'}};
     let gr = new GfxRepo(textures);
     // When
-    var texture_0 = gr.get_texture('sky', 0);
-    var texture_1 = gr.get_texture('sky', 1);
+    var texture_0 = await gr.get_texture('sky', 0);
+    var texture_1 = await gr.get_texture('sky', 1);
     // Then
     expect(texture_0).toMatch('petscii-sky');
     expect(texture_1).toMatch('raster-sky');

diff --git a/src/street.js b/src/street.js
@@ -1,0 +1,31 @@
+module.exports = class Street {
+  constructor(street_desc, gfx_repo) {
+    this.buildings = street_desc.buildings;
+    this.gfx_repo = gfx_repo;
+  }
+
+  render_buildings(scene, engagement_level) {
+    var x = 100;
+    var y = 420;
+    var gfx_repo = this.gfx_repo;
+    var buildings = this.buildings;
+    var result = [];
+    var promises = [];
+    buildings.forEach(function(building){
+      // Get texture for engagement level from graphics repo
+      promises.push(gfx_repo.get_texture(building.type, engagement_level).then((texture) => {
+          // Keep count / track of x
+          x+= 1000; 
+          // What about y?
+          return result.push(scene.add.image(x, y, texture.name));
+        }));
+      });
+    return Promise.all(promises).then(function(values) {
+      var i;
+      for (i = 0; i < 10; i++) {
+        scene.fg.push(scene.add.image(1500+(i*2000), y, 'foreground')); // .setOrigin(0, 0))  // reset the drawing position of the image to the top-left - default is centre
+      }
+      return values;
+    });
+  }
+}

diff --git a/src/gfx_repo.js b/src/gfx_repo.js
@@ -2,22 +2,25 @@ module.exports = class GfxRepo {
   constructor(gfx_data) {
     this.gfx_data = gfx_data;
   }
+
   get_texture(key, level) {
-    var all = [];
-  	if (typeof key == 'undefined') {
+    var gfx_data = this.gfx_data
+    return new Promise(function(resolve, reject) {
+      var all = [];
+    	if (typeof key == 'undefined') {
 
-      for (const [key, value] of Object.entries(this.gfx_data)) {
-        for (const [child_key, child_value] of Object.entries(value)) {
-          all.push(child_value);
+        for (const [key, value] of Object.entries(gfx_data)) {
+          for (const [child_key, child_value] of Object.entries(value)) {
+            all.push(child_value);
+          }
         }
-      }
-
-  		return all;
-  	} else {
-  		if (typeof level == 'undefined') {
-  			level = 0;
-  		}
-	    return this.gfx_data[key][level];
-  	}
+    		resolve(all);
+    	} else {
+    		if (typeof level == 'undefined') {
+    			level = 0;
+    		}
+  	    resolve(gfx_data[key][level]);
+    	}
+    });
   }
 }

diff --git a/test/browser/game.test.js b/test/browser/game.test.js
@@ -37,7 +37,7 @@ describe('Bézier City', () => {
 
     const graphql_endpoint = PATH + '/graphql';
     return request(graphql_endpoint, query).then(async(data) => {
-      const expected = (data.textures.length) + 2
+      const expected = (data.textures.length) + 3
       // Confirm that the game has preloaded that many (plus its defaults) 
       const num_textures = await page.evaluate(() => Object.keys(bezier.game.textures.list).length);
       await expect(num_textures).toEqual(expected)

diff --git a/src/game.js b/src/game.js
@@ -11,8 +11,6 @@ module.exports = class Game {
     }
     this.engagement++;
     return this.repo.get_texture('sky', this.engagement).then(data => {
-      console.log(data);
-      console.log('Setting sky to:', data.name);
       this.sky.setTexture(data.name);
       return this.engagement;
     });
